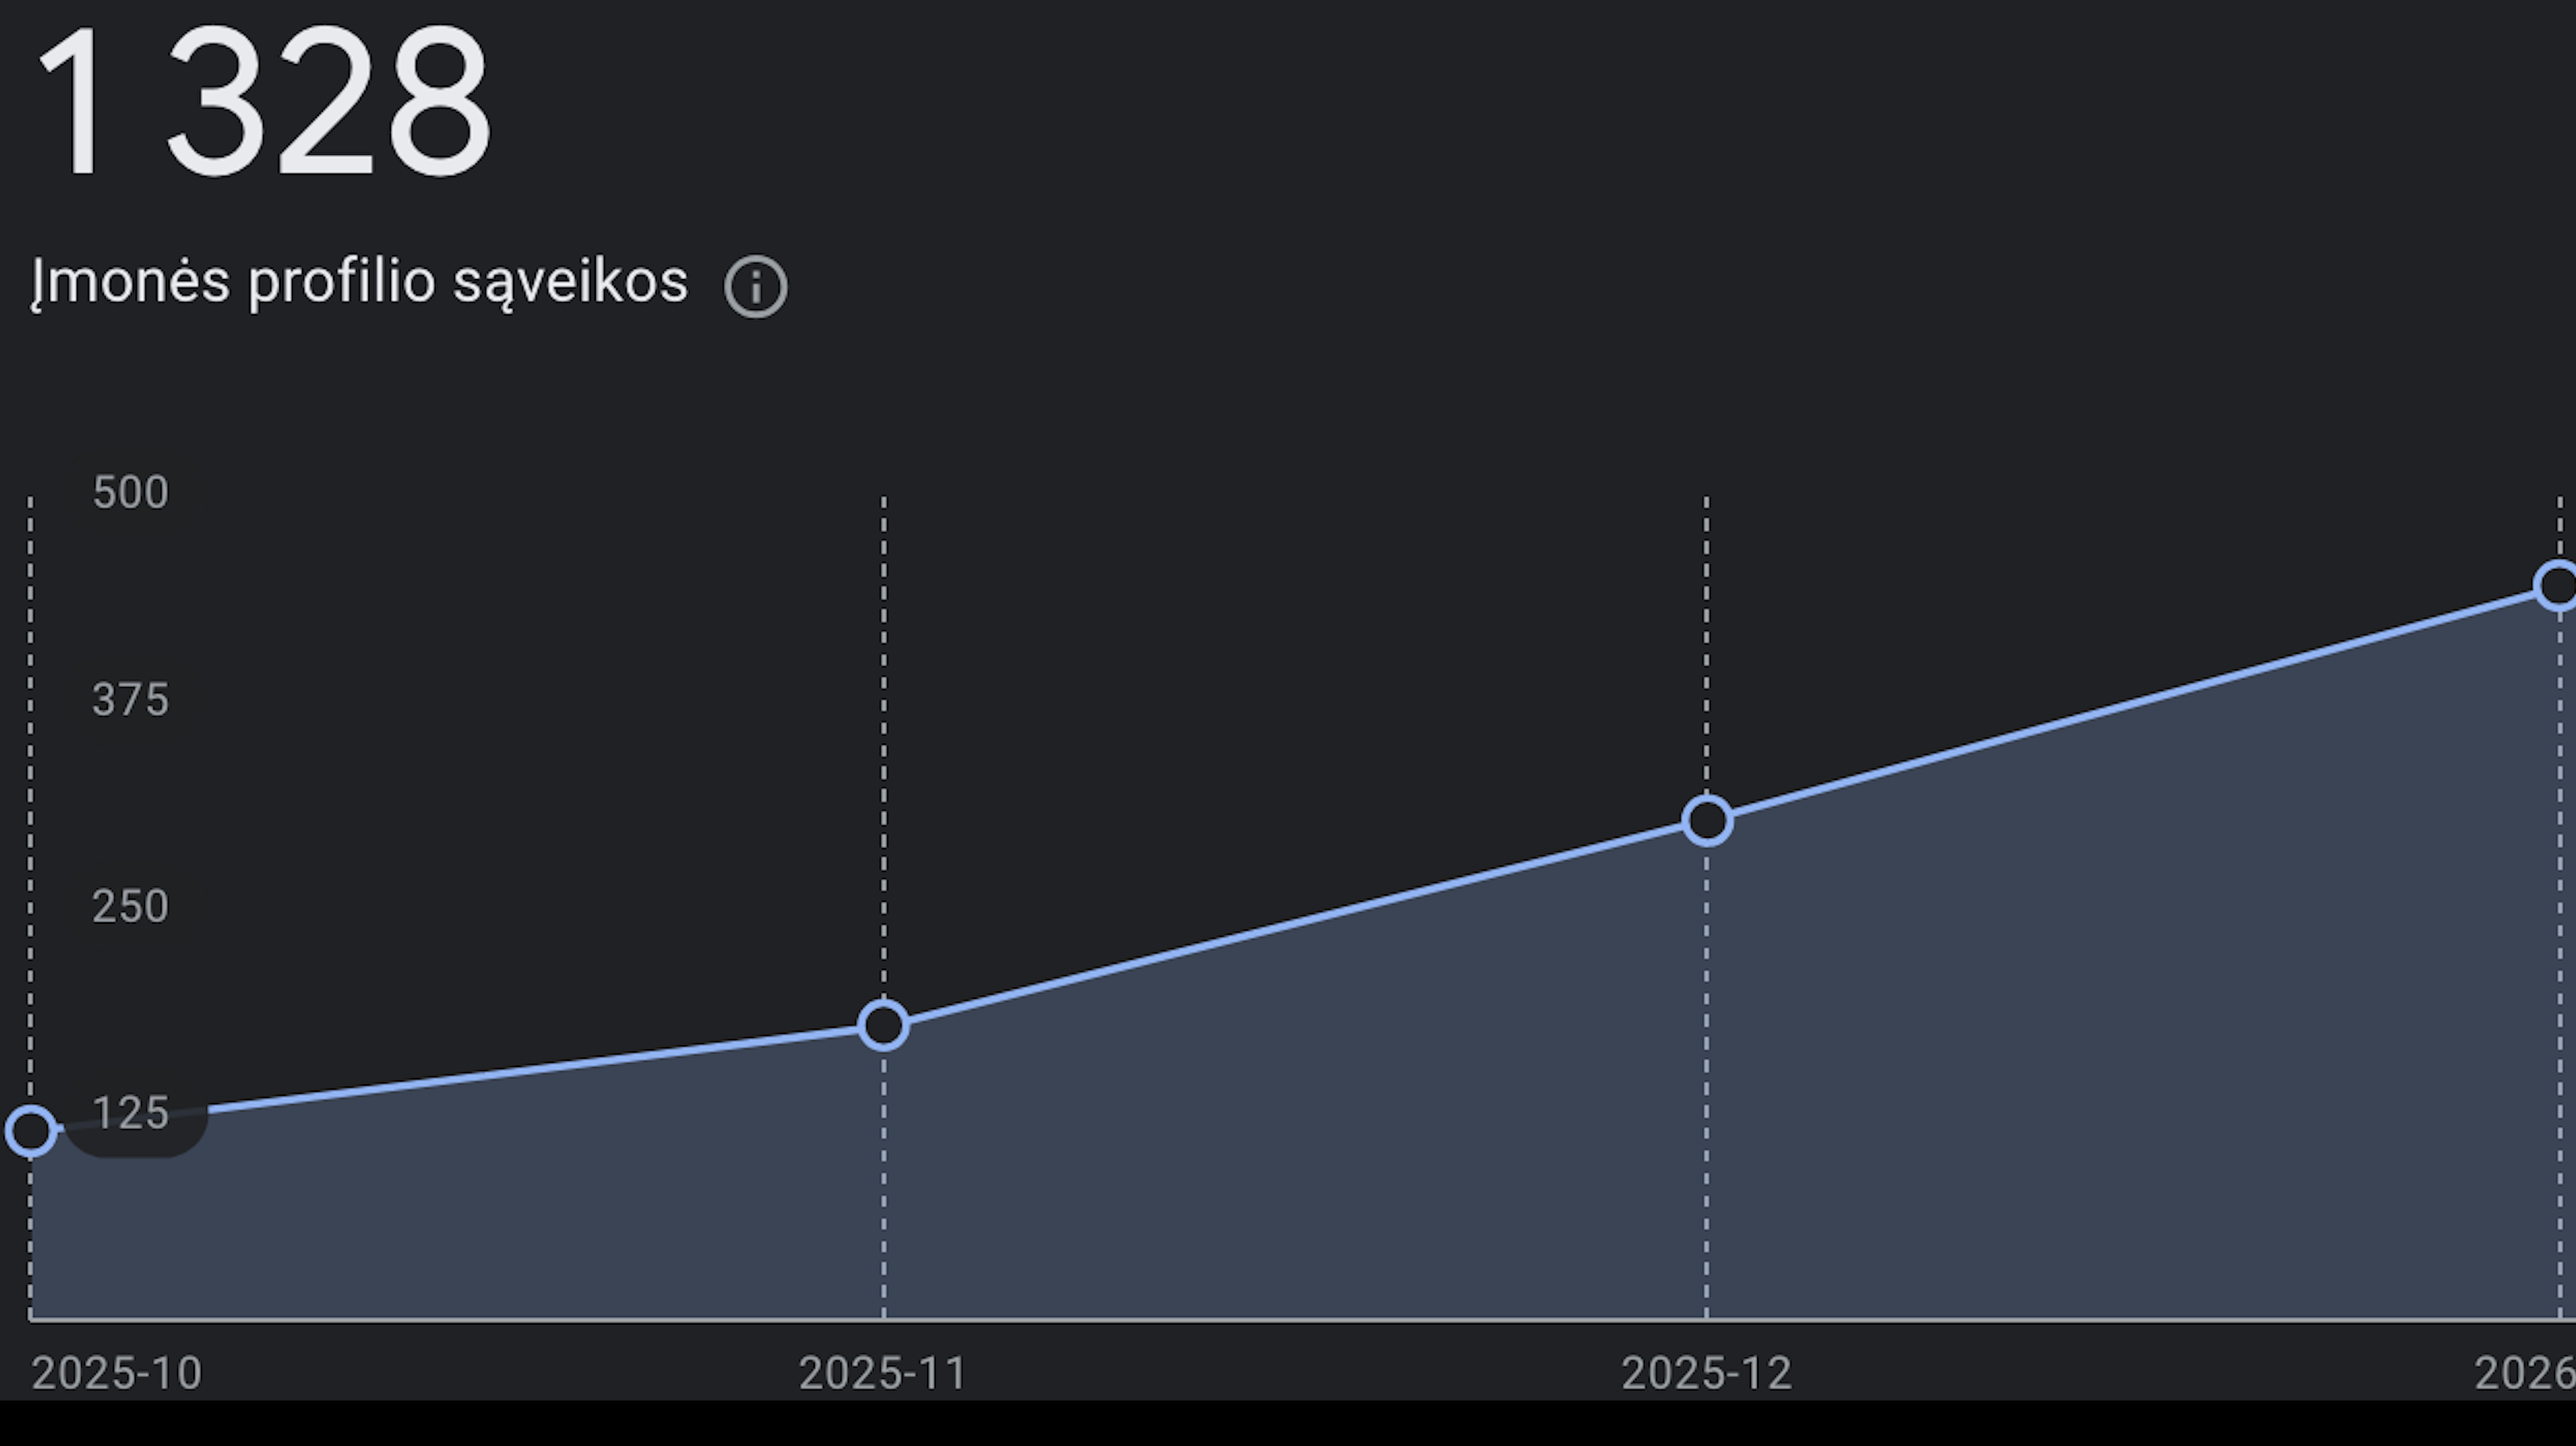
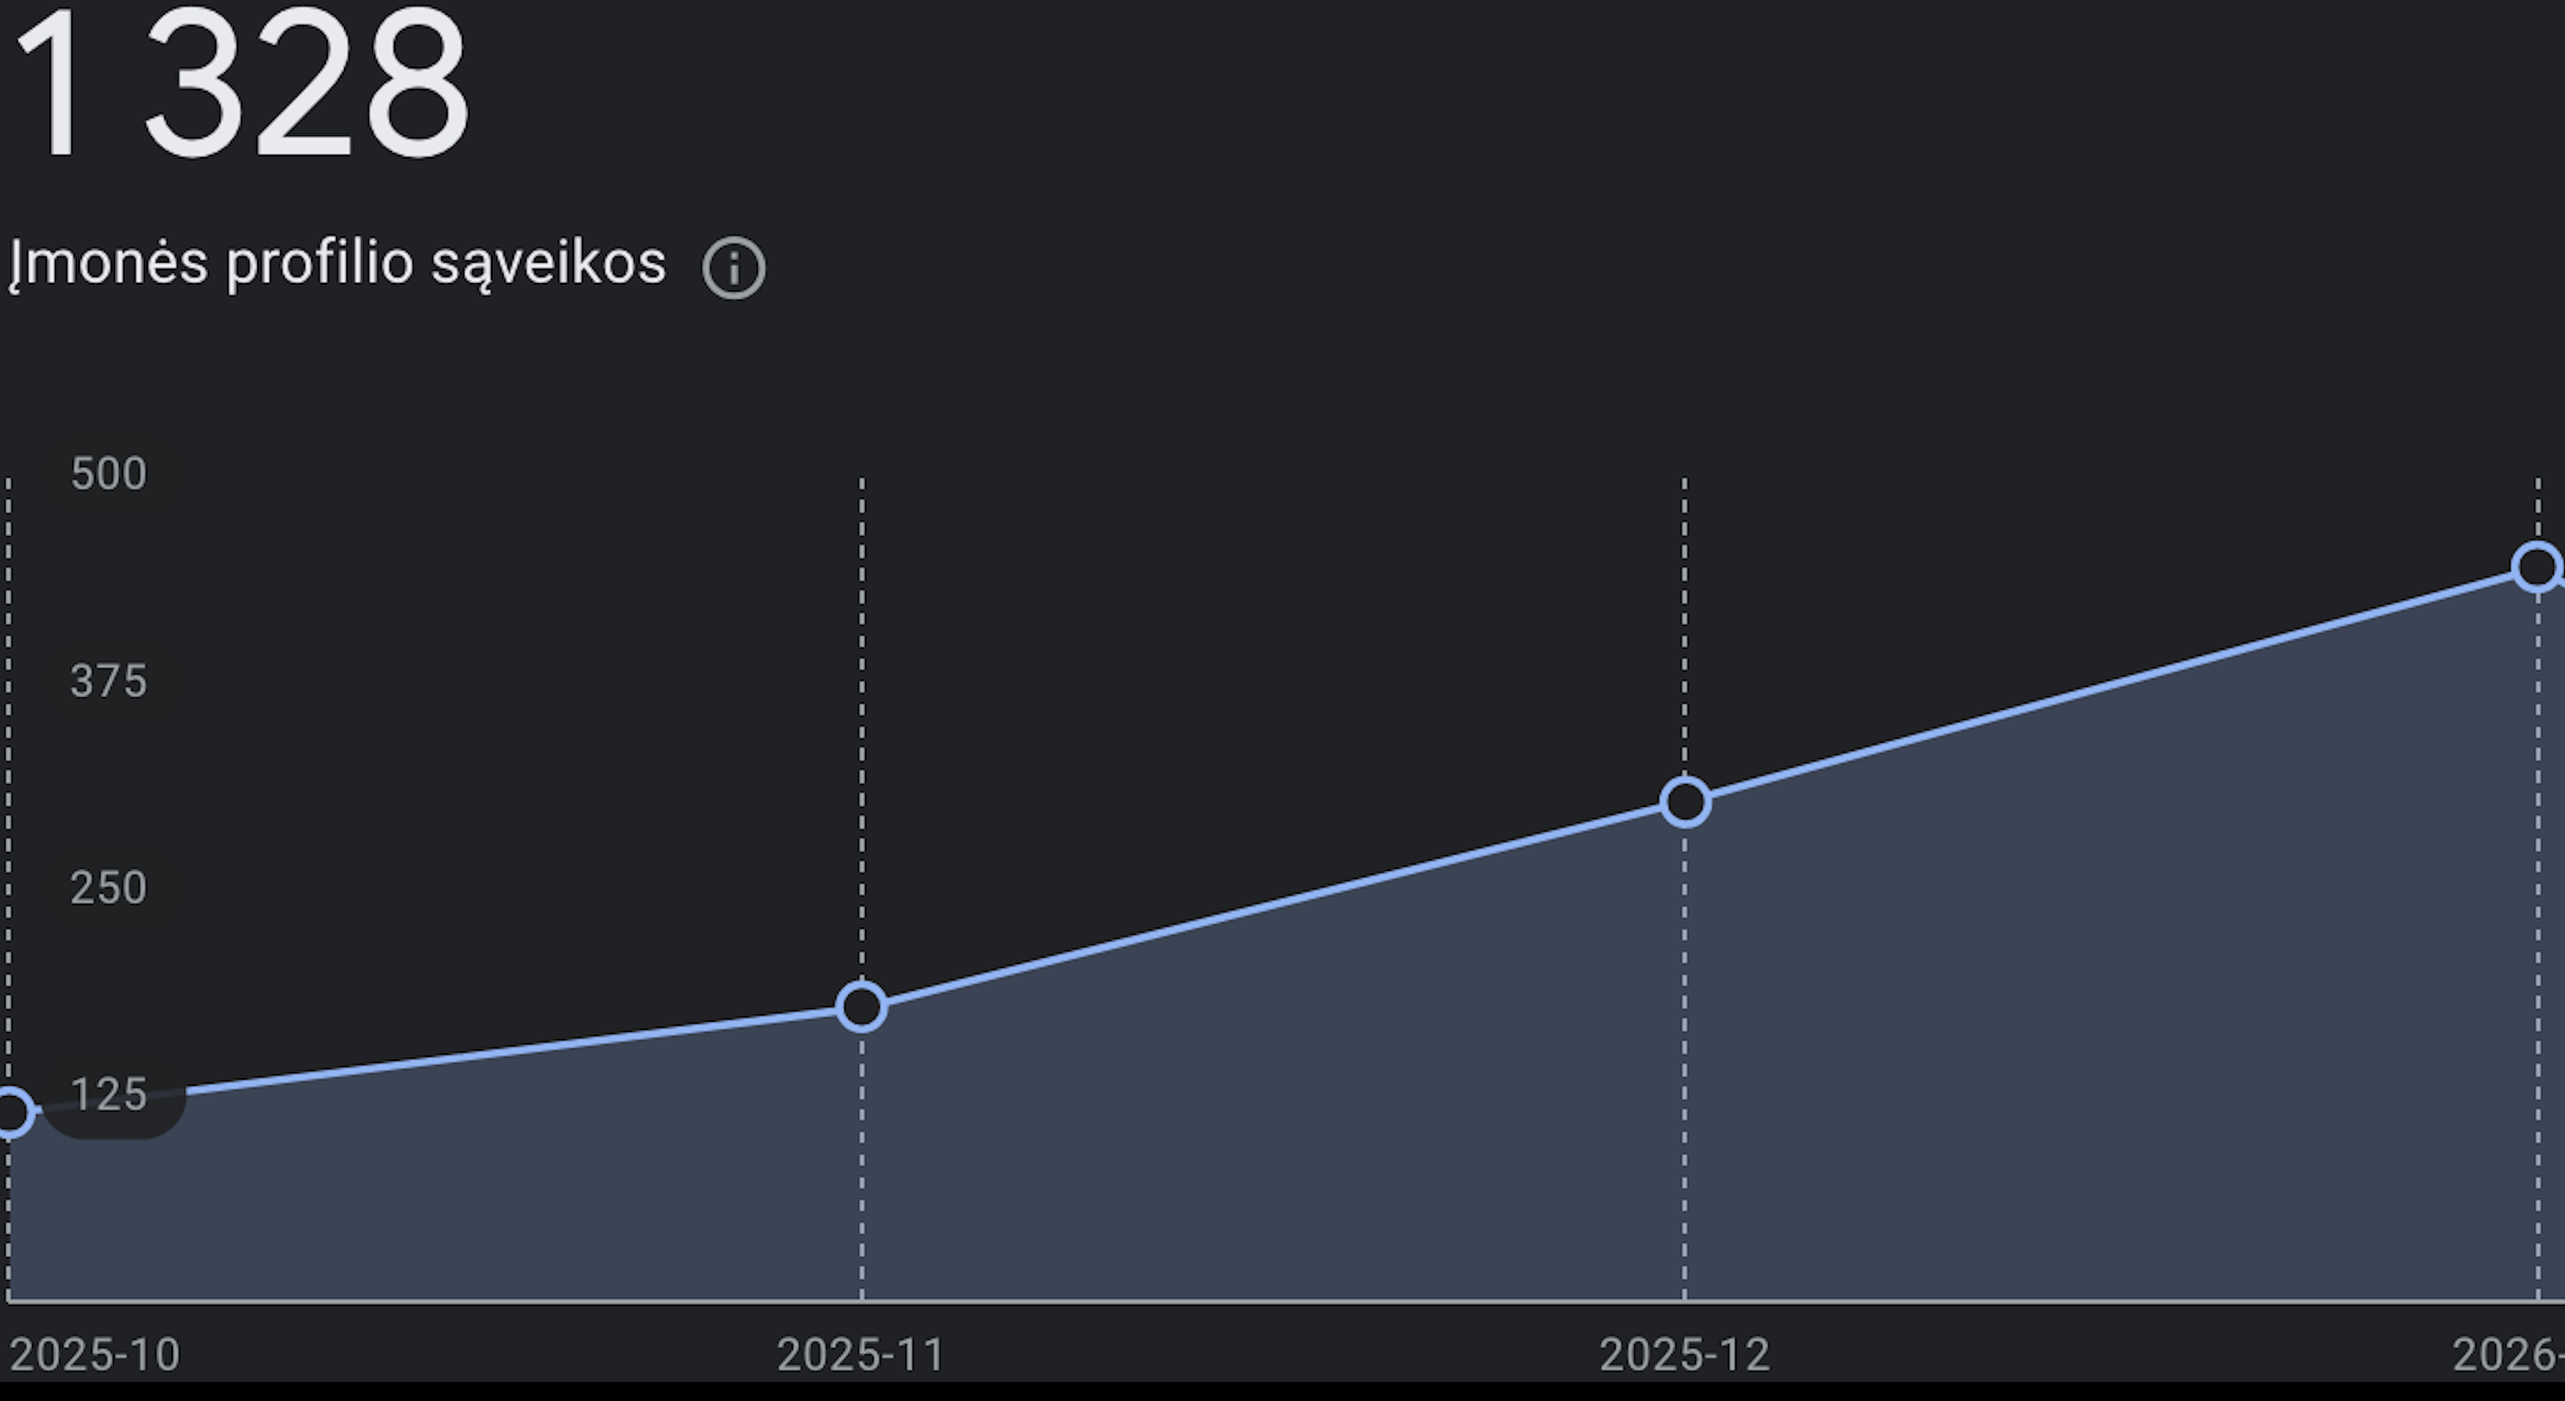
Simplify reviews to direct YouTube iframe embeds

diff --git a/src/components/ClientReviewsSection.tsx b/src/components/ClientReviewsSection.tsx
@@ -26,8 +26,6 @@ const clientVideos = [
 ];
 
 const VideoCard = ({ video, index }: { video: typeof clientVideos[0]; index: number }) => {
-  const [playing, setPlaying] = useState(false);
-
   return (
     <motion.div
       initial={{ opacity: 0, y: 15 }}
@@ -36,41 +34,13 @@ const VideoCard = ({ video, index }: { video: typeof clientVideos[0]; index: num
       className="w-full max-w-[320px] mx-auto overflow-hidden rounded-3xl border border-border bg-card p-2 shadow-md hover:shadow-lg transition-shadow duration-300 flex flex-col items-center"
     >
       <div className="relative w-full aspect-[9/16] rounded-2xl overflow-hidden bg-black">
-        {playing ? (
-          <iframe
-            src={`https://www.youtube.com/embed/${video.id}?autoplay=1&playsinline=1`}
-            title={video.title}
-            allow="accelerometer; autoplay; clipboard-write; encrypted-media; gyroscope; picture-in-picture; web-share"
-            allowFullScreen
-            className="absolute inset-0 w-full h-full border-0"
-          />
-        ) : (
-          <button
-            onClick={() => setPlaying(true)}
-            className="absolute inset-0 w-full h-full flex items-center justify-center group focus:outline-none"
-          >
-            <img
-              src={video.thumbnail}
-              alt={video.title}
-              className="absolute inset-0 w-full h-full object-cover transition-transform duration-300 group-hover:scale-105"
-            />
-            
-            {/* Overlay for better readability of play button */}
-            <div className="absolute inset-0 bg-black/20 group-hover:bg-black/40 transition-colors duration-200" />
-
-            {/* Play overlay button */}
-            <div className="absolute z-10 flex flex-col items-center gap-3">
-              <div className="w-16 h-16 rounded-full bg-red-600 flex items-center justify-center shadow-lg group-hover:bg-red-700 group-hover:scale-110 transition-all duration-200">
-                <svg className="w-6 h-6 text-white fill-current translate-x-0.5" viewBox="0 0 24 24">
-                  <path d="M8 5v14l11-7z" />
-                </svg>
-              </div>
-              <span className="rounded-full bg-black/60 border border-white/20 px-3 py-1.5 text-xs font-semibold text-white/90 backdrop-blur-sm">
-                Žiūrėti video
-              </span>
-            </div>
-          </button>
-        )}
+        <iframe
+          src={`https://www.youtube.com/embed/${video.id}`}
+          title={video.title}
+          allow="accelerometer; autoplay; clipboard-write; encrypted-media; gyroscope; picture-in-picture"
+          allowFullScreen
+          className="absolute inset-0 w-full h-full border-0"
+        />
       </div>
     </motion.div>
   );
